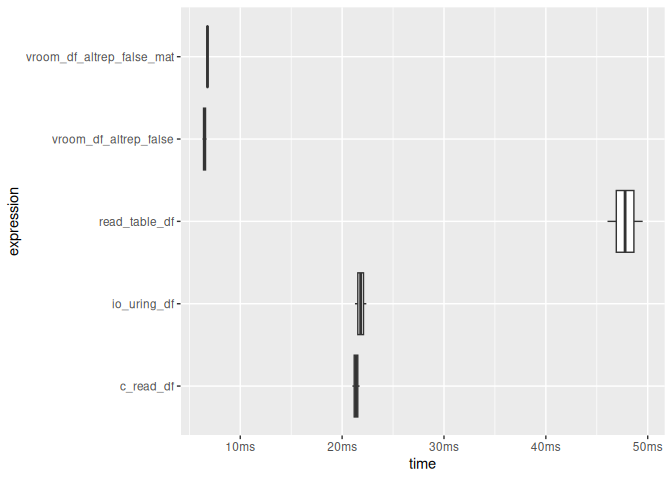
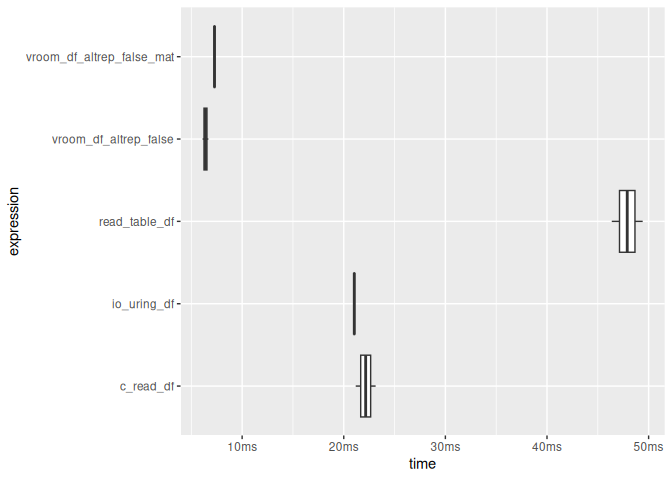
Deploying to gh-pages from @ sounkou-bioinfo/Rtinycc@e1e50fe4ad366ec9fc0b7a5b2995385eb7048d0e 🚀

diff --git a/index.html b/index.html
@@ -169,7 +169,7 @@
 <span><span class="fu"><a href="reference/tcc_read_bytes.html">tcc_read_bytes</a></span><span class="op">(</span><span class="va">ptr</span>, <span class="fl">5</span><span class="op">)</span></span>
 <span><span class="co">#&gt; [1] 68 65 6c 6c 6f</span></span>
 <span><span class="fu"><a href="reference/tcc_ptr_addr.html">tcc_ptr_addr</a></span><span class="op">(</span><span class="va">ptr</span>, hex <span class="op">=</span> <span class="cn">TRUE</span><span class="op">)</span></span>
-<span><span class="co">#&gt; [1] "0x5f067f19eee0"</span></span>
+<span><span class="co">#&gt; [1] "0x5de606dadb80"</span></span>
 <span><span class="fu"><a href="reference/tcc_ptr_is_null.html">tcc_ptr_is_null</a></span><span class="op">(</span><span class="va">ptr</span><span class="op">)</span></span>
 <span><span class="co">#&gt; [1] FALSE</span></span>
 <span><span class="fu"><a href="reference/tcc_free.html">tcc_free</a></span><span class="op">(</span><span class="va">ptr</span><span class="op">)</span></span>
@@ -190,11 +190,11 @@
 <code class="sourceCode R"><span><span class="va">ptr_ref</span> <span class="op">&lt;-</span> <span class="fu"><a href="reference/tcc_malloc.html">tcc_malloc</a></span><span class="op">(</span><span class="va">.Machine</span><span class="op">$</span><span class="va">sizeof.pointer</span> <span class="op"><a href="https://rdrr.io/r/base/Control.html" class="external-link">%||%</a></span> <span class="fl">8L</span><span class="op">)</span></span>
 <span><span class="va">target</span> <span class="op">&lt;-</span> <span class="fu"><a href="reference/tcc_malloc.html">tcc_malloc</a></span><span class="op">(</span><span class="fl">8</span><span class="op">)</span></span>
 <span><span class="fu"><a href="reference/tcc_ptr_set.html">tcc_ptr_set</a></span><span class="op">(</span><span class="va">ptr_ref</span>, <span class="va">target</span><span class="op">)</span></span>
-<span><span class="co">#&gt; &lt;pointer: 0x5f067f2dc920&gt;</span></span>
+<span><span class="co">#&gt; &lt;pointer: 0x5de604eddc60&gt;</span></span>
 <span><span class="fu"><a href="reference/tcc_data_ptr.html">tcc_data_ptr</a></span><span class="op">(</span><span class="va">ptr_ref</span><span class="op">)</span></span>
-<span><span class="co">#&gt; &lt;pointer: 0x5f067e612520&gt;</span></span>
+<span><span class="co">#&gt; &lt;pointer: 0x5de601907750&gt;</span></span>
 <span><span class="fu"><a href="reference/tcc_ptr_set.html">tcc_ptr_set</a></span><span class="op">(</span><span class="va">ptr_ref</span>, <span class="fu"><a href="reference/tcc_null_ptr.html">tcc_null_ptr</a></span><span class="op">(</span><span class="op">)</span><span class="op">)</span></span>
-<span><span class="co">#&gt; &lt;pointer: 0x5f067f2dc920&gt;</span></span>
+<span><span class="co">#&gt; &lt;pointer: 0x5de604eddc60&gt;</span></span>
 <span><span class="fu"><a href="reference/tcc_free.html">tcc_free</a></span><span class="op">(</span><span class="va">target</span><span class="op">)</span></span>
 <span><span class="co">#&gt; NULL</span></span>
 <span><span class="fu"><a href="reference/tcc_free.html">tcc_free</a></span><span class="op">(</span><span class="va">ptr_ref</span><span class="op">)</span></span>
@@ -388,7 +388,7 @@
 <span></span>
 <span><span class="va">x</span> <span class="op">&lt;-</span> <span class="fu"><a href="https://rdrr.io/r/base/integer.html" class="external-link">as.integer</a></span><span class="op">(</span><span class="fl">1</span><span class="op">:</span><span class="fl">100</span><span class="op">)</span> <span class="co"># to avoid ALTREP</span></span>
 <span><span class="fu"><a href="https://rdrr.io/r/base/Internal.html" class="external-link">.Internal</a></span><span class="op">(</span><span class="fu">inspect</span><span class="op">(</span><span class="va">x</span><span class="op">)</span><span class="op">)</span></span>
-<span><span class="co">#&gt; @5f06800f4150 13 INTSXP g0c0 [REF(65535)]  1 : 100 (compact)</span></span>
+<span><span class="co">#&gt; @5de6055d90c8 13 INTSXP g0c0 [REF(65535)]  1 : 100 (compact)</span></span>
 <span><span class="va">ffi</span><span class="op">$</span><span class="fu">sum_array</span><span class="op">(</span><span class="va">x</span>, <span class="fu"><a href="https://rdrr.io/r/base/length.html" class="external-link">length</a></span><span class="op">(</span><span class="va">x</span><span class="op">)</span><span class="op">)</span></span>
 <span><span class="co">#&gt; [1] 5050</span></span>
 <span></span>
@@ -404,7 +404,7 @@
 <span><span class="co">#&gt; [1] 11</span></span>
 <span></span>
 <span><span class="fu"><a href="https://rdrr.io/r/base/Internal.html" class="external-link">.Internal</a></span><span class="op">(</span><span class="fu">inspect</span><span class="op">(</span><span class="va">x</span><span class="op">)</span><span class="op">)</span></span>
-<span><span class="co">#&gt; @5f06800f4150 13 INTSXP g0c0 [REF(65535)]  11 : 110 (expanded)</span></span></code></pre></div>
+<span><span class="co">#&gt; @5de6055d90c8 13 INTSXP g0c0 [REF(65535)]  11 : 110 (expanded)</span></span></code></pre></div>
 </div>
 </div>
 <div class="section level2">
@@ -431,15 +431,15 @@
 <span></span>
 <span><span class="va">p1</span> <span class="op">&lt;-</span> <span class="va">ffi</span><span class="op">$</span><span class="fu">struct_point_new</span><span class="op">(</span><span class="op">)</span></span>
 <span><span class="va">ffi</span><span class="op">$</span><span class="fu">struct_point_set_x</span><span class="op">(</span><span class="va">p1</span>, <span class="fl">0.0</span><span class="op">)</span></span>
-<span><span class="co">#&gt; &lt;pointer: 0x5f067fa4f000&gt;</span></span>
+<span><span class="co">#&gt; &lt;pointer: 0x5de601def1d0&gt;</span></span>
 <span><span class="va">ffi</span><span class="op">$</span><span class="fu">struct_point_set_y</span><span class="op">(</span><span class="va">p1</span>, <span class="fl">0.0</span><span class="op">)</span></span>
-<span><span class="co">#&gt; &lt;pointer: 0x5f067fa4f000&gt;</span></span>
+<span><span class="co">#&gt; &lt;pointer: 0x5de601def1d0&gt;</span></span>
 <span></span>
 <span><span class="va">p2</span> <span class="op">&lt;-</span> <span class="va">ffi</span><span class="op">$</span><span class="fu">struct_point_new</span><span class="op">(</span><span class="op">)</span></span>
 <span><span class="va">ffi</span><span class="op">$</span><span class="fu">struct_point_set_x</span><span class="op">(</span><span class="va">p2</span>, <span class="fl">3.0</span><span class="op">)</span></span>
-<span><span class="co">#&gt; &lt;pointer: 0x5f06825b4150&gt;</span></span>
+<span><span class="co">#&gt; &lt;pointer: 0x5de6046e3640&gt;</span></span>
 <span><span class="va">ffi</span><span class="op">$</span><span class="fu">struct_point_set_y</span><span class="op">(</span><span class="va">p2</span>, <span class="fl">4.0</span><span class="op">)</span></span>
-<span><span class="co">#&gt; &lt;pointer: 0x5f06825b4150&gt;</span></span>
+<span><span class="co">#&gt; &lt;pointer: 0x5de6046e3640&gt;</span></span>
 <span></span>
 <span><span class="va">ffi</span><span class="op">$</span><span class="fu">distance</span><span class="op">(</span><span class="va">p1</span>, <span class="va">p2</span><span class="op">)</span></span>
 <span><span class="co">#&gt; [1] 5</span></span>
@@ -481,9 +481,9 @@
 <span></span>
 <span><span class="va">s</span> <span class="op">&lt;-</span> <span class="va">ffi</span><span class="op">$</span><span class="fu">struct_flags_new</span><span class="op">(</span><span class="op">)</span></span>
 <span><span class="va">ffi</span><span class="op">$</span><span class="fu">struct_flags_set_active</span><span class="op">(</span><span class="va">s</span>, <span class="fl">1L</span><span class="op">)</span></span>
-<span><span class="co">#&gt; &lt;pointer: 0x5f067f190fb0&gt;</span></span>
+<span><span class="co">#&gt; &lt;pointer: 0x5de6024ab1d0&gt;</span></span>
 <span><span class="va">ffi</span><span class="op">$</span><span class="fu">struct_flags_set_level</span><span class="op">(</span><span class="va">s</span>, <span class="fl">9L</span><span class="op">)</span></span>
-<span><span class="co">#&gt; &lt;pointer: 0x5f067f190fb0&gt;</span></span>
+<span><span class="co">#&gt; &lt;pointer: 0x5de6024ab1d0&gt;</span></span>
 <span><span class="va">ffi</span><span class="op">$</span><span class="fu">struct_flags_get_active</span><span class="op">(</span><span class="va">s</span><span class="op">)</span></span>
 <span><span class="co">#&gt; [1] 1</span></span>
 <span><span class="va">ffi</span><span class="op">$</span><span class="fu">struct_flags_get_level</span><span class="op">(</span><span class="va">s</span><span class="op">)</span></span>
@@ -841,7 +841,7 @@
 <span>  <span class="fu"><a href="reference/tcc_compile.html">tcc_compile</a></span><span class="op">(</span><span class="op">)</span></span>
 <span></span>
 <span><span class="va">ffi</span><span class="op">$</span><span class="fu">struct_point_new</span><span class="op">(</span><span class="op">)</span></span>
-<span><span class="co">#&gt; &lt;pointer: 0x5f0682fb8530&gt;</span></span>
+<span><span class="co">#&gt; &lt;pointer: 0x5de607848460&gt;</span></span>
 <span><span class="va">ffi</span><span class="op">$</span><span class="fu">enum_status_OK</span><span class="op">(</span><span class="op">)</span></span>
 <span><span class="co">#&gt; [1] 0</span></span>
 <span><span class="va">ffi</span><span class="op">$</span><span class="fu">global_global_counter_get</span><span class="op">(</span><span class="op">)</span></span>
@@ -956,11 +956,11 @@
 <span><span class="co">#&gt; # A tibble: 5 × 13</span></span>
 <span><span class="co">#&gt;   expression     min  median `itr/sec` mem_alloc `gc/sec` n_itr  n_gc total_time</span></span>
 <span><span class="co">#&gt;   &lt;bch:expr&gt; &lt;bch:t&gt; &lt;bch:t&gt;     &lt;dbl&gt; &lt;bch:byt&gt;    &lt;dbl&gt; &lt;int&gt; &lt;dbl&gt;   &lt;bch:tm&gt;</span></span>
-<span><span class="co">#&gt; 1 read_tabl… 46.05ms 47.78ms      20.9    6.33MB        0     2     0     95.6ms</span></span>
-<span><span class="co">#&gt; 2 vroom_df_…   6.3ms  6.49ms     154.     1.22MB        0     2     0       13ms</span></span>
-<span><span class="co">#&gt; 3 vroom_df_…  6.76ms  6.78ms     147.     2.44MB        0     2     0     13.6ms</span></span>
-<span><span class="co">#&gt; 4 c_read_df  21.01ms 21.36ms      46.8    1.22MB        0     2     0     42.7ms</span></span>
-<span><span class="co">#&gt; 5 io_uring_… 21.26ms 21.82ms      45.8    1.22MB        0     2     0     43.6ms</span></span>
+<span><span class="co">#&gt; 1 read_tabl… 46.38ms  47.9ms      20.9    6.33MB        0     2     0     95.8ms</span></span>
+<span><span class="co">#&gt; 2 vroom_df_…   6.1ms  6.39ms     156.     1.22MB        0     2     0     12.8ms</span></span>
+<span><span class="co">#&gt; 3 vroom_df_…  7.25ms  7.28ms     137.     2.44MB        0     2     0     14.6ms</span></span>
+<span><span class="co">#&gt; 4 c_read_df  21.18ms 22.16ms      45.1    1.22MB        0     2     0     44.3ms</span></span>
+<span><span class="co">#&gt; 5 io_uring_…    21ms 21.04ms      47.5    1.22MB        0     2     0     42.1ms</span></span>
 <span><span class="co">#&gt; # ℹ 4 more variables: result &lt;list&gt;, memory &lt;list&gt;, time &lt;list&gt;, gc &lt;list&gt;</span></span></code></pre></div>
 <p><img src="reference/figures/README-io_uring-demo-1.png" alt="" width="100%"></p>
 </div>
@@ -1042,9 +1042,9 @@
 <span></span>
 <span><span class="va">b</span> <span class="op">&lt;-</span> <span class="va">ffi</span><span class="op">$</span><span class="fu">struct_buf_new</span><span class="op">(</span><span class="op">)</span></span>
 <span><span class="va">ffi</span><span class="op">$</span><span class="fu">struct_buf_set_data_elt</span><span class="op">(</span><span class="va">b</span>, <span class="fl">0L</span>, <span class="fl">0xCAL</span><span class="op">)</span></span>
-<span><span class="co">#&gt; &lt;pointer: 0x5f0687b35e60&gt;</span></span>
+<span><span class="co">#&gt; &lt;pointer: 0x5de60914b1a0&gt;</span></span>
 <span><span class="va">ffi</span><span class="op">$</span><span class="fu">struct_buf_set_data_elt</span><span class="op">(</span><span class="va">b</span>, <span class="fl">1L</span>, <span class="fl">0xFEL</span><span class="op">)</span></span>
-<span><span class="co">#&gt; &lt;pointer: 0x5f0687b35e60&gt;</span></span>
+<span><span class="co">#&gt; &lt;pointer: 0x5de60914b1a0&gt;</span></span>
 <span><span class="va">ffi</span><span class="op">$</span><span class="fu">struct_buf_get_data_elt</span><span class="op">(</span><span class="va">b</span>, <span class="fl">0L</span><span class="op">)</span></span>
 <span><span class="co">#&gt; [1] 202</span></span>
 <span><span class="va">ffi</span><span class="op">$</span><span class="fu">struct_buf_get_data_elt</span><span class="op">(</span><span class="va">b</span>, <span class="fl">1L</span><span class="op">)</span></span>

diff --git a/articles/compilation-and-call-overhead.html b/articles/compilation-and-call-overhead.html
@@ -443,7 +443,7 @@ skipped.</p>
 <span><span class="va">compile_times</span></span>
 <span><span class="co">#&gt;   implementation seconds milliseconds</span></span>
 <span><span class="co">#&gt; 1        Rtinycc   0.019           19</span></span>
-<span><span class="co">#&gt; 2         callme   0.229          229</span></span></code></pre></div>
+<span><span class="co">#&gt; 2         callme   0.237          237</span></span></code></pre></div>
 <p>The expected pattern is:</p>
 <ul>
 <li>
@@ -594,8 +594,8 @@ point.</p>
 <span><span class="co">#&gt; <span style="color: #949494;"># A tibble: 2 × 6</span></span></span>
 <span><span class="co">#&gt;   expression      min   median `itr/sec` mem_alloc `gc/sec`</span></span>
 <span><span class="co">#&gt;   <span style="color: #949494; font-style: italic;">&lt;bch:expr&gt;</span> <span style="color: #949494; font-style: italic;">&lt;bch:tm&gt;</span> <span style="color: #949494; font-style: italic;">&lt;bch:tm&gt;</span>     <span style="color: #949494; font-style: italic;">&lt;dbl&gt;</span> <span style="color: #949494; font-style: italic;">&lt;bch:byt&gt;</span>    <span style="color: #949494; font-style: italic;">&lt;dbl&gt;</span></span></span>
-<span><span class="co">#&gt; <span style="color: #BCBCBC;">1</span> Rtinycc      1.22ms   1.25ms      798.    21.9KB        0</span></span>
-<span><span class="co">#&gt; <span style="color: #BCBCBC;">2</span> callme     466.08µs 475.14µs     <span style="text-decoration: underline;">2</span>107.        0B        0</span></span></code></pre></div>
+<span><span class="co">#&gt; <span style="color: #BCBCBC;">1</span> Rtinycc      1.21ms   1.23ms      813.    21.9KB        0</span></span>
+<span><span class="co">#&gt; <span style="color: #BCBCBC;">2</span> callme     452.05µs 466.68µs     <span style="text-decoration: underline;">2</span>127.        0B        0</span></span></code></pre></div>
 <p>Interpretation:</p>
 <ul>
 <li>the <code>callme</code> path is close to the cost of a conventional
@@ -637,8 +637,8 @@ result.</p>
 <span><span class="co">#&gt; <span style="color: #949494;"># A tibble: 2 × 6</span></span></span>
 <span><span class="co">#&gt;   expression      min   median `itr/sec` mem_alloc `gc/sec`</span></span>
 <span><span class="co">#&gt;   <span style="color: #949494; font-style: italic;">&lt;bch:expr&gt;</span> <span style="color: #949494; font-style: italic;">&lt;bch:tm&gt;</span> <span style="color: #949494; font-style: italic;">&lt;bch:tm&gt;</span>     <span style="color: #949494; font-style: italic;">&lt;dbl&gt;</span> <span style="color: #949494; font-style: italic;">&lt;bch:byt&gt;</span>    <span style="color: #949494; font-style: italic;">&lt;dbl&gt;</span></span></span>
-<span><span class="co">#&gt; <span style="color: #BCBCBC;">1</span> Rtinycc       2.8ms   4.04ms      261.    3.15MB     13.0</span></span>
-<span><span class="co">#&gt; <span style="color: #BCBCBC;">2</span> callme       2.07ms   2.09ms      440.    3.13MB     22.0</span></span></code></pre></div>
+<span><span class="co">#&gt; <span style="color: #BCBCBC;">1</span> Rtinycc       2.8ms      4ms      262.    3.15MB     13.1</span></span>
+<span><span class="co">#&gt; <span style="color: #BCBCBC;">2</span> callme       2.08ms    2.1ms      436.    3.13MB     21.8</span></span></code></pre></div>
 <p>Interpretation:</p>
 <ul>
 <li>both sides now write into ordinary R numeric storage</li>
@@ -688,14 +688,14 @@ into a fresh R vector</li>
 <span><span class="co">#&gt; <span style="color: #949494;"># A tibble: 2 × 6</span></span></span>
 <span><span class="co">#&gt;   expression      min   median `itr/sec` mem_alloc `gc/sec`</span></span>
 <span><span class="co">#&gt;   <span style="color: #949494; font-style: italic;">&lt;bch:expr&gt;</span> <span style="color: #949494; font-style: italic;">&lt;bch:tm&gt;</span> <span style="color: #949494; font-style: italic;">&lt;bch:tm&gt;</span>     <span style="color: #949494; font-style: italic;">&lt;dbl&gt;</span> <span style="color: #949494; font-style: italic;">&lt;bch:byt&gt;</span>    <span style="color: #949494; font-style: italic;">&lt;dbl&gt;</span></span></span>
-<span><span class="co">#&gt; <span style="color: #BCBCBC;">1</span> Rtinycc      1.82ms    1.9ms      493.    15.4KB     24.6</span></span>
-<span><span class="co">#&gt; <span style="color: #BCBCBC;">2</span> callme     987.57µs      1ms      992.        0B      0</span></span>
+<span><span class="co">#&gt; <span style="color: #BCBCBC;">1</span> Rtinycc       1.8ms   1.87ms      500.    15.4KB     25.0</span></span>
+<span><span class="co">#&gt; <span style="color: #BCBCBC;">2</span> callme      948.4µs 966.56µs     <span style="text-decoration: underline;">1</span>034.        0B      0</span></span>
 <span><span class="va">rand_results</span><span class="op">$</span><span class="va">rand_bench_n4096</span></span>
 <span><span class="co">#&gt; <span style="color: #949494;"># A tibble: 2 × 6</span></span></span>
 <span><span class="co">#&gt;   expression      min   median `itr/sec` mem_alloc `gc/sec`</span></span>
 <span><span class="co">#&gt;   <span style="color: #949494; font-style: italic;">&lt;bch:expr&gt;</span> <span style="color: #949494; font-style: italic;">&lt;bch:tm&gt;</span> <span style="color: #949494; font-style: italic;">&lt;bch:tm&gt;</span>     <span style="color: #949494; font-style: italic;">&lt;dbl&gt;</span> <span style="color: #949494; font-style: italic;">&lt;bch:byt&gt;</span>    <span style="color: #949494; font-style: italic;">&lt;dbl&gt;</span></span></span>
-<span><span class="co">#&gt; <span style="color: #BCBCBC;">1</span> Rtinycc      2.78ms   4.05ms      242.    3.13MB     12.1</span></span>
-<span><span class="co">#&gt; <span style="color: #BCBCBC;">2</span> callme       1.81ms   3.12ms      312.    3.13MB     15.6</span></span></code></pre></div>
+<span><span class="co">#&gt; <span style="color: #BCBCBC;">1</span> Rtinycc      2.79ms   4.04ms      242.    3.13MB     12.1</span></span>
+<span><span class="co">#&gt; <span style="color: #BCBCBC;">2</span> callme       1.81ms   3.11ms      307.    3.13MB     15.4</span></span></code></pre></div>
 <p>The usual pattern is:</p>
 <ul>
 <li>for <code>fill_rand()</code>, the comparison is much closer to

diff --git a/articles/ffi-helpers.html b/articles/ffi-helpers.html
@@ -143,14 +143,14 @@ helpers for that pattern.</p>
 <span><span class="va">target</span> <span class="op">&lt;-</span> <span class="fu"><a href="../reference/tcc_malloc.html">tcc_malloc</a></span><span class="op">(</span><span class="fl">4</span><span class="op">)</span></span>
 <span></span>
 <span><span class="fu"><a href="../reference/tcc_ptr_set.html">tcc_ptr_set</a></span><span class="op">(</span><span class="va">ptr_ref</span>, <span class="va">target</span><span class="op">)</span></span>
-<span><span class="co">#&gt; &lt;pointer: 0x558f01a4b570&gt;</span></span>
+<span><span class="co">#&gt; &lt;pointer: 0x563d1bc73570&gt;</span></span>
 <span><span class="fu"><a href="../reference/tcc_ptr_addr.html">tcc_ptr_addr</a></span><span class="op">(</span><span class="fu"><a href="../reference/tcc_data_ptr.html">tcc_data_ptr</a></span><span class="op">(</span><span class="va">ptr_ref</span><span class="op">)</span><span class="op">)</span></span>
-<span><span class="co">#&gt; [1] "94072694778240"</span></span>
+<span><span class="co">#&gt; [1] "94820457556352"</span></span>
 <span><span class="fu"><a href="../reference/tcc_ptr_addr.html">tcc_ptr_addr</a></span><span class="op">(</span><span class="va">target</span><span class="op">)</span></span>
-<span><span class="co">#&gt; [1] "94072694778240"</span></span>
+<span><span class="co">#&gt; [1] "94820457556352"</span></span>
 <span></span>
 <span><span class="fu"><a href="../reference/tcc_ptr_set.html">tcc_ptr_set</a></span><span class="op">(</span><span class="va">ptr_ref</span>, <span class="fu"><a href="../reference/tcc_null_ptr.html">tcc_null_ptr</a></span><span class="op">(</span><span class="op">)</span><span class="op">)</span></span>
-<span><span class="co">#&gt; &lt;pointer: 0x558f01a4b570&gt;</span></span>
+<span><span class="co">#&gt; &lt;pointer: 0x563d1bc73570&gt;</span></span>
 <span><span class="fu"><a href="../reference/tcc_ptr_is_null.html">tcc_ptr_is_null</a></span><span class="op">(</span><span class="fu"><a href="../reference/tcc_data_ptr.html">tcc_data_ptr</a></span><span class="op">(</span><span class="va">ptr_ref</span><span class="op">)</span><span class="op">)</span></span>
 <span><span class="co">#&gt; [1] TRUE</span></span>
 <span></span>

diff --git a/index.md b/index.md
@@ -178,7 +178,7 @@ tcc_read_cstring(ptr)
 tcc_read_bytes(ptr, 5)
 #> [1] 68 65 6c 6c 6f
 tcc_ptr_addr(ptr, hex = TRUE)
-#> [1] "0x5f067f19eee0"
+#> [1] "0x5de606dadb80"
 tcc_ptr_is_null(ptr)
 #> [1] FALSE
 tcc_free(ptr)
@@ -209,11 +209,11 @@ through output parameters.
 ptr_ref <- tcc_malloc(.Machine$sizeof.pointer %||% 8L)
 target <- tcc_malloc(8)
 tcc_ptr_set(ptr_ref, target)
-#> <pointer: 0x5f067f2dc920>
+#> <pointer: 0x5de604eddc60>
 tcc_data_ptr(ptr_ref)
-#> <pointer: 0x5f067e612520>
+#> <pointer: 0x5de601907750>
 tcc_ptr_set(ptr_ref, tcc_null_ptr())
-#> <pointer: 0x5f067f2dc920>
+#> <pointer: 0x5de604eddc60>
 tcc_free(target)
 #> NULL
 tcc_free(ptr_ref)
@@ -445,7 +445,7 @@ ffi <- tcc_ffi() |>
 
 x <- as.integer(1:100) # to avoid ALTREP
 .Internal(inspect(x))
-#> @5f06800f4150 13 INTSXP g0c0 [REF(65535)]  1 : 100 (compact)
+#> @5de6055d90c8 13 INTSXP g0c0 [REF(65535)]  1 : 100 (compact)
 ffi$sum_array(x, length(x))
 #> [1] 5050
 
@@ -461,7 +461,7 @@ y[1]
 #> [1] 11
 
 .Internal(inspect(x))
-#> @5f06800f4150 13 INTSXP g0c0 [REF(65535)]  11 : 110 (expanded)
+#> @5de6055d90c8 13 INTSXP g0c0 [REF(65535)]  11 : 110 (expanded)
 ```
 
 ## Advanced FFI features
@@ -489,15 +489,15 @@ ffi <- tcc_ffi() |>
 
 p1 <- ffi$struct_point_new()
 ffi$struct_point_set_x(p1, 0.0)
-#> <pointer: 0x5f067fa4f000>
+#> <pointer: 0x5de601def1d0>
 ffi$struct_point_set_y(p1, 0.0)
-#> <pointer: 0x5f067fa4f000>
+#> <pointer: 0x5de601def1d0>
 
 p2 <- ffi$struct_point_new()
 ffi$struct_point_set_x(p2, 3.0)
-#> <pointer: 0x5f06825b4150>
+#> <pointer: 0x5de6046e3640>
 ffi$struct_point_set_y(p2, 4.0)
-#> <pointer: 0x5f06825b4150>
+#> <pointer: 0x5de6046e3640>
 
 ffi$distance(p1, p2)
 #> [1] 5
@@ -542,9 +542,9 @@ ffi <- tcc_ffi() |>
 
 s <- ffi$struct_flags_new()
 ffi$struct_flags_set_active(s, 1L)
-#> <pointer: 0x5f067f190fb0>
+#> <pointer: 0x5de6024ab1d0>
 ffi$struct_flags_set_level(s, 9L)
-#> <pointer: 0x5f067f190fb0>
+#> <pointer: 0x5de6024ab1d0>
 ffi$struct_flags_get_active(s)
 #> [1] 1
 ffi$struct_flags_get_level(s)
@@ -950,7 +950,7 @@ ffi <- tcc_ffi() |>
   tcc_compile()
 
 ffi$struct_point_new()
-#> <pointer: 0x5f0682fb8530>
+#> <pointer: 0x5de607848460>
 ffi$enum_status_OK()
 #> [1] 0
 ffi$global_global_counter_get()
@@ -1067,11 +1067,11 @@ if (Sys.info()[["sysname"]] == "Linux") {
 #> # A tibble: 5 × 13
 #>   expression     min  median `itr/sec` mem_alloc `gc/sec` n_itr  n_gc total_time
 #>   <bch:expr> <bch:t> <bch:t>     <dbl> <bch:byt>    <dbl> <int> <dbl>   <bch:tm>
-#> 1 read_tabl… 46.05ms 47.78ms      20.9    6.33MB        0     2     0     95.6ms
-#> 2 vroom_df_…   6.3ms  6.49ms     154.     1.22MB        0     2     0       13ms
-#> 3 vroom_df_…  6.76ms  6.78ms     147.     2.44MB        0     2     0     13.6ms
-#> 4 c_read_df  21.01ms 21.36ms      46.8    1.22MB        0     2     0     42.7ms
-#> 5 io_uring_… 21.26ms 21.82ms      45.8    1.22MB        0     2     0     43.6ms
+#> 1 read_tabl… 46.38ms  47.9ms      20.9    6.33MB        0     2     0     95.8ms
+#> 2 vroom_df_…   6.1ms  6.39ms     156.     1.22MB        0     2     0     12.8ms
+#> 3 vroom_df_…  7.25ms  7.28ms     137.     2.44MB        0     2     0     14.6ms
+#> 4 c_read_df  21.18ms 22.16ms      45.1    1.22MB        0     2     0     44.3ms
+#> 5 io_uring_…    21ms 21.04ms      47.5    1.22MB        0     2     0     42.1ms
 #> # ℹ 4 more variables: result <list>, memory <list>, time <list>, gc <list>
 ```
 
@@ -1176,9 +1176,9 @@ ffi <- tcc_ffi() |>
 
 b <- ffi$struct_buf_new()
 ffi$struct_buf_set_data_elt(b, 0L, 0xCAL)
-#> <pointer: 0x5f0687b35e60>
+#> <pointer: 0x5de60914b1a0>
 ffi$struct_buf_set_data_elt(b, 1L, 0xFEL)
-#> <pointer: 0x5f0687b35e60>
+#> <pointer: 0x5de60914b1a0>
 ffi$struct_buf_get_data_elt(b, 0L)
 #> [1] 202
 ffi$struct_buf_get_data_elt(b, 1L)

diff --git a/articles/compilation-and-call-overhead.md b/articles/compilation-and-call-overhead.md
@@ -370,7 +370,7 @@ compile_times$milliseconds <- round(compile_times$seconds * 1000, 1)
 compile_times
 #>   implementation seconds milliseconds
 #> 1        Rtinycc   0.019           19
-#> 2         callme   0.229          229
+#> 2         callme   0.237          237
 ```
 
 The expected pattern is:
@@ -519,8 +519,8 @@ noop_bench
 #> # A tibble: 2 × 6
 #>   expression      min   median `itr/sec` mem_alloc `gc/sec`
 #>   <bch:expr> <bch:tm> <bch:tm>     <dbl> <bch:byt>    <dbl>
-#> 1 Rtinycc      1.22ms   1.25ms      798.    21.9KB        0
-#> 2 callme     466.08µs 475.14µs     2107.        0B        0
+#> 1 Rtinycc      1.21ms   1.23ms      813.    21.9KB        0
+#> 2 callme     452.05µs 466.68µs     2127.        0B        0
 ```
 
 Interpretation:
@@ -558,8 +558,8 @@ fill_bench_n4096
 #> # A tibble: 2 × 6
 #>   expression      min   median `itr/sec` mem_alloc `gc/sec`
 #>   <bch:expr> <bch:tm> <bch:tm>     <dbl> <bch:byt>    <dbl>
-#> 1 Rtinycc       2.8ms   4.04ms      261.    3.15MB     13.0
-#> 2 callme       2.07ms   2.09ms      440.    3.13MB     22.0
+#> 1 Rtinycc       2.8ms      4ms      262.    3.15MB     13.1
+#> 2 callme       2.08ms    2.1ms      436.    3.13MB     21.8
 ```
 
 Interpretation:
@@ -607,14 +607,14 @@ rand_results$rand_bench_n1
 #> # A tibble: 2 × 6
 #>   expression      min   median `itr/sec` mem_alloc `gc/sec`
 #>   <bch:expr> <bch:tm> <bch:tm>     <dbl> <bch:byt>    <dbl>
-#> 1 Rtinycc      1.82ms    1.9ms      493.    15.4KB     24.6
-#> 2 callme     987.57µs      1ms      992.        0B      0
+#> 1 Rtinycc       1.8ms   1.87ms      500.    15.4KB     25.0
+#> 2 callme      948.4µs 966.56µs     1034.        0B      0
 rand_results$rand_bench_n4096
 #> # A tibble: 2 × 6
 #>   expression      min   median `itr/sec` mem_alloc `gc/sec`
 #>   <bch:expr> <bch:tm> <bch:tm>     <dbl> <bch:byt>    <dbl>
-#> 1 Rtinycc      2.78ms   4.05ms      242.    3.13MB     12.1
-#> 2 callme       1.81ms   3.12ms      312.    3.13MB     15.6
+#> 1 Rtinycc      2.79ms   4.04ms      242.    3.13MB     12.1
+#> 2 callme       1.81ms   3.11ms      307.    3.13MB     15.4
 ```
 
 The usual pattern is:

diff --git a/articles/ffi-helpers.md b/articles/ffi-helpers.md
@@ -77,14 +77,14 @@ ptr_ref <- tcc_malloc(ptr_size)
 target <- tcc_malloc(4)
 
 tcc_ptr_set(ptr_ref, target)
-#> <pointer: 0x558f01a4b570>
+#> <pointer: 0x563d1bc73570>
 tcc_ptr_addr(tcc_data_ptr(ptr_ref))
-#> [1] "94072694778240"
+#> [1] "94820457556352"
 tcc_ptr_addr(target)
-#> [1] "94072694778240"
+#> [1] "94820457556352"
 
 tcc_ptr_set(ptr_ref, tcc_null_ptr())
-#> <pointer: 0x558f01a4b570>
+#> <pointer: 0x563d1bc73570>
 tcc_ptr_is_null(tcc_data_ptr(ptr_ref))
 #> [1] TRUE
 